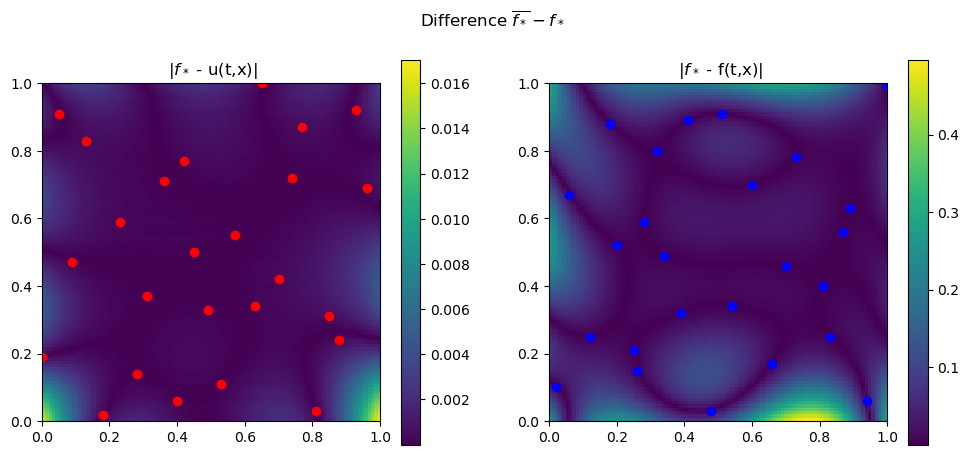
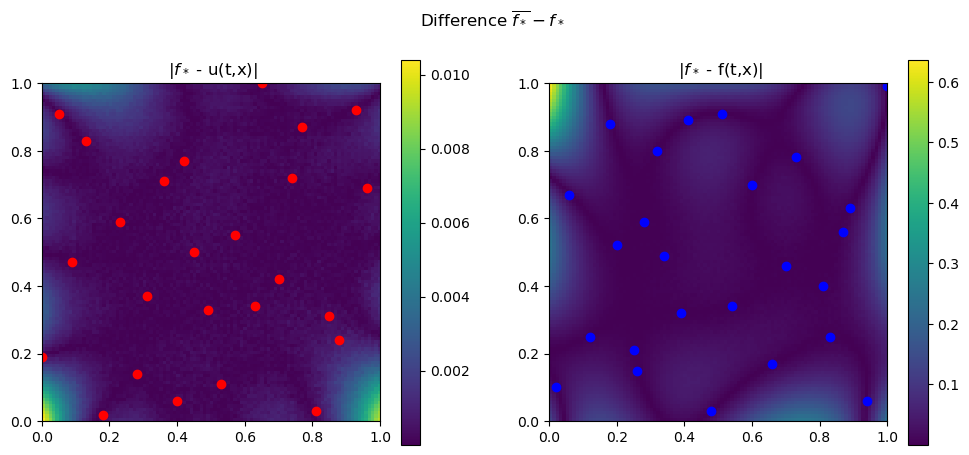
fixed poisson

diff --git a/PI_GP_regressor/kernels/kernel_poisson.py b/PI_GP_regressor/kernels/kernel_poisson.py
@@ -46,26 +46,26 @@ def k_ff(x, x_bar, params):
     d_xxxx = 4*gamma**2*(4*gamma*(x-x_bar)**2 *(gamma*(x-x_bar)**2 - 3)+3)
     d_yyyy = 4*gamma**2*(4*gamma*(y-y_bar)**2 *(gamma*(y-y_bar)**2 - 3)+3)
     d_xxyy = 4*gamma**2*(2*(x-x_bar)**2*gamma - 1)*(2*(y-y_bar)**2*gamma - 1)
-    return (d_xxxx + d_yyyy + d_xxyy)*k_uu_data
+    return (d_xxxx + d_yyyy + 2*d_xxyy)*k_uu_data
 
 k_ff = jit(vmap(vmap(k_ff,(None,0,None)), (0,None,None)))
 
 @jit
-def gram_Matrix(XT, YS, params, noise = [0,0]):
+def gram_Matrix(X, X_bar, params, noise = [0,0]):
     """computes the gram matrix of the kernel
     noise = [noise_u, noise_f]
     """
-    assert XT.shape[1] == 2, "X must be a 2d array"
-    X, T = XT[:,0].reshape(-1,1), XT[:,1].reshape(-1,1)
-    Y, S = YS[:,0].reshape(-1,1), YS[:,1].reshape(-1,1)
+    assert X.shape[1] == 2, "X must be a 2d array"
+    X, T = X[:,0].reshape(-1,1), X[:,1].reshape(-1,1)
+    X_bar, T_bar = X_bar[:,0].reshape(-1,1), X_bar[:,1].reshape(-1,1)
 
     X_u = jnp.hstack([X,T])
-    X_f = jnp.hstack([Y,S])
+    X_f = jnp.hstack([X_bar,T_bar])
     
-    k_uu_matrix = k_uu(X_u, X_u, params) + noise[0]**2 * jnp.eye(len(X)) 
+    k_uu_matrix = k_uu(X_u, X_u, params) + noise[0] * jnp.eye(len(X)) 
     k_uf_matrix = k_uf(X_u, X_f, params)                              
     k_fu_matrix = k_fu(X_f, X_u, params) 
-    k_ff_matrix = k_ff(X_f, X_f, params) + noise[1]**2 * jnp.eye(len(Y))
+    k_ff_matrix = k_ff(X_f, X_f, params) + noise[1] * jnp.eye(len(X_bar))
     #combine all the matrices to the full gram matrix
     K = jnp.block([[k_uu_matrix, k_uf_matrix], [k_fu_matrix, k_ff_matrix]])
     return K
